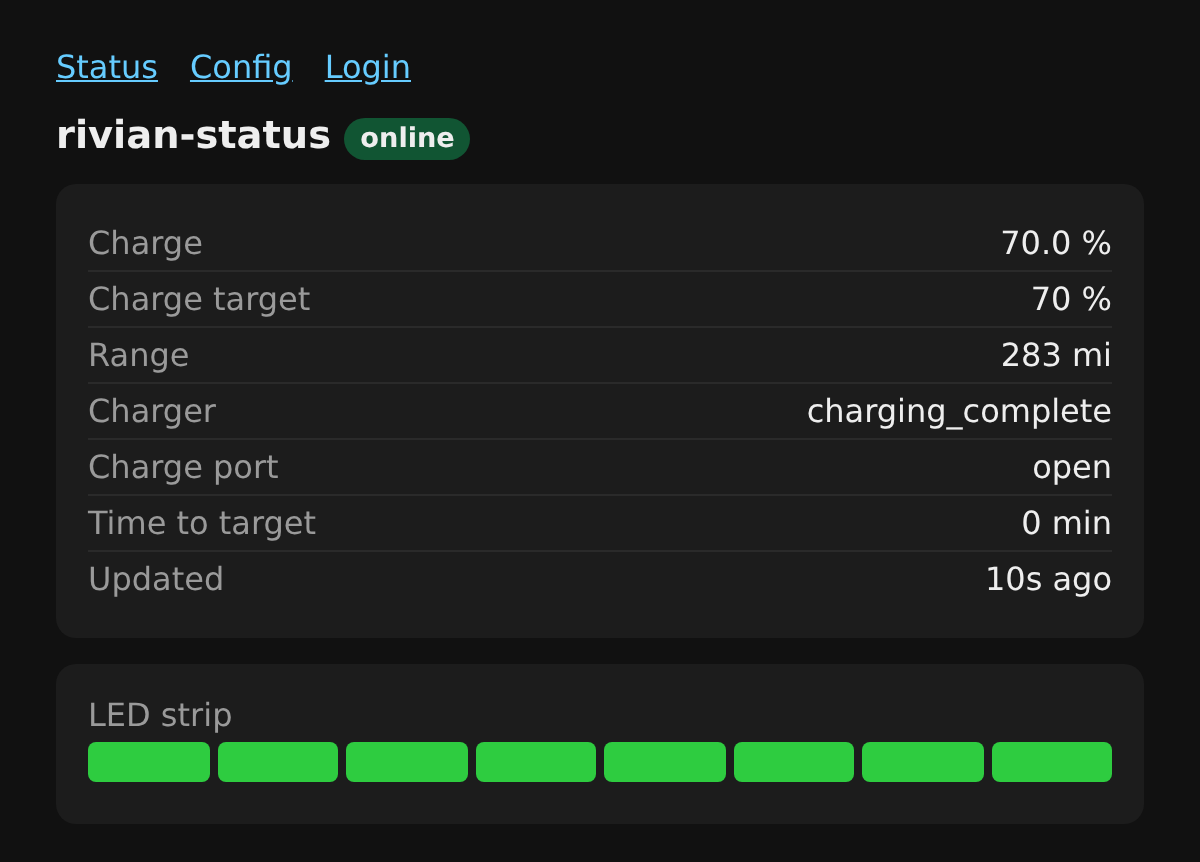
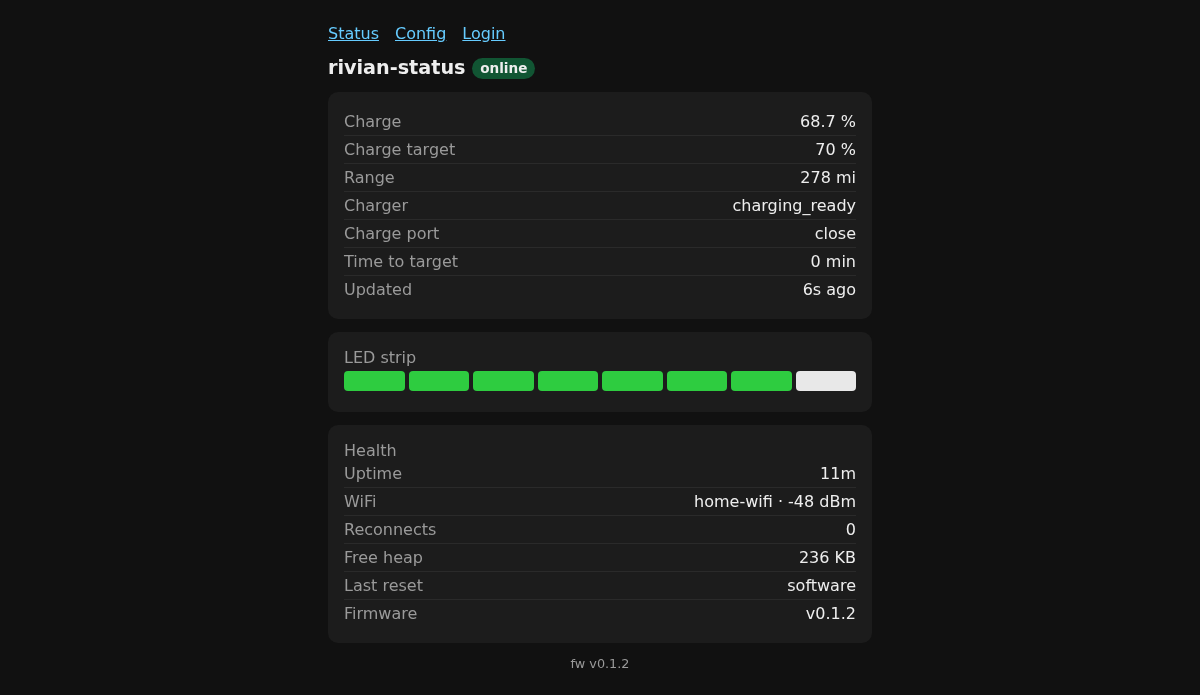
docs: refresh screenshots and document firmware updates
The three README screenshots predated the Health card, the mounting-orientation
picker and the Firmware card, so they no longer showed what the device serves.
Recaptured all three at the same 1200px width via headless Chromium.

The WiFi SSID now rendered in the Health card is replaced with a placeholder in
the capture: an SSID is geolocatable through wardriving databases and this repo
is public. Nothing else in the pages was altered.

Adds a "Firmware updates" section covering the self-update path — source
selection, the automatic-install toggle and why it defaults off, the
strictly-newer guarantee, dual-slot safety on an interrupted download, and the
caveat that release binaries carry no OTA password. Also expands the Status
bullet to mention the health readout.

Claude-Session: https://claude.ai/code/session_01AyP9gmoeDzbHnMUUyQRugh

diff --git a/README.md b/README.md
@@ -68,11 +68,38 @@ setup portal on first boot):
 |:---:|:---:|:---:|
 | [![Status page](docs/screenshots/status.png)](docs/screenshots/status.png) | [![Login page](docs/screenshots/login.png)](docs/screenshots/login.png) | [![Config page](docs/screenshots/config.png)](docs/screenshots/config.png) |
 
-- **Status** — live charge %, target, range, charger/plug state, and a preview of the LED strip.
+- **Status** — live charge %, target, range, charger/plug state, a preview of the LED strip, and a
+  **health** readout (uptime, signal, WiFi reconnects, free heap, last reset cause, firmware
+  version). The health numbers are what tell you whether a unit that's been up for weeks is
+  actually healthy or quietly flapping.
 - **Login** — one-time Rivian sign-in (email + password, then the emailed MFA code); only the
   session token is stored, never the password.
-- **Config** — low-range alert threshold, LED brightness, [mounting orientation](#mounting-orientation),
-  and device name.
+- **Config** — low-range alert threshold, LED brightness,
+  [mounting orientation](#mounting-orientation), device name, and
+  [firmware updates](#firmware-updates).
+
+## Firmware updates
+
+The device can update itself. It checks for a newer release at boot and every 6 hours, and either
+tells you one is available or installs it — your choice:
+
+- **Update source** — blank checks this repo's latest GitHub Release. Type `off` to never check, or
+  paste your own manifest URL.
+- **Install updates automatically** — off by default, so out of the box it reports an update but
+  waits for you to press **Check & update now**. Tick it and the device keeps itself current
+  unattended.
+
+It only ever installs a *strictly newer* version, so it can't flip-flop between builds or downgrade
+a hand-flashed development build. A failed or interrupted download leaves the running firmware
+untouched — the new image goes into a second flash slot and is only booted once it's complete. The
+LED strip shows a blue progress bar while it installs.
+
+> **Note:** release binaries are built without any secrets, which means they carry **no OTA
+> password** — the wireless-flash listener on such a unit is unauthenticated. Keep it on a trusted
+> network, or build and flash your own binary.
+
+You can still push firmware from a laptop over WiFi at any time (`espota`), which is what
+development builds use.
 
 ## Parts
 